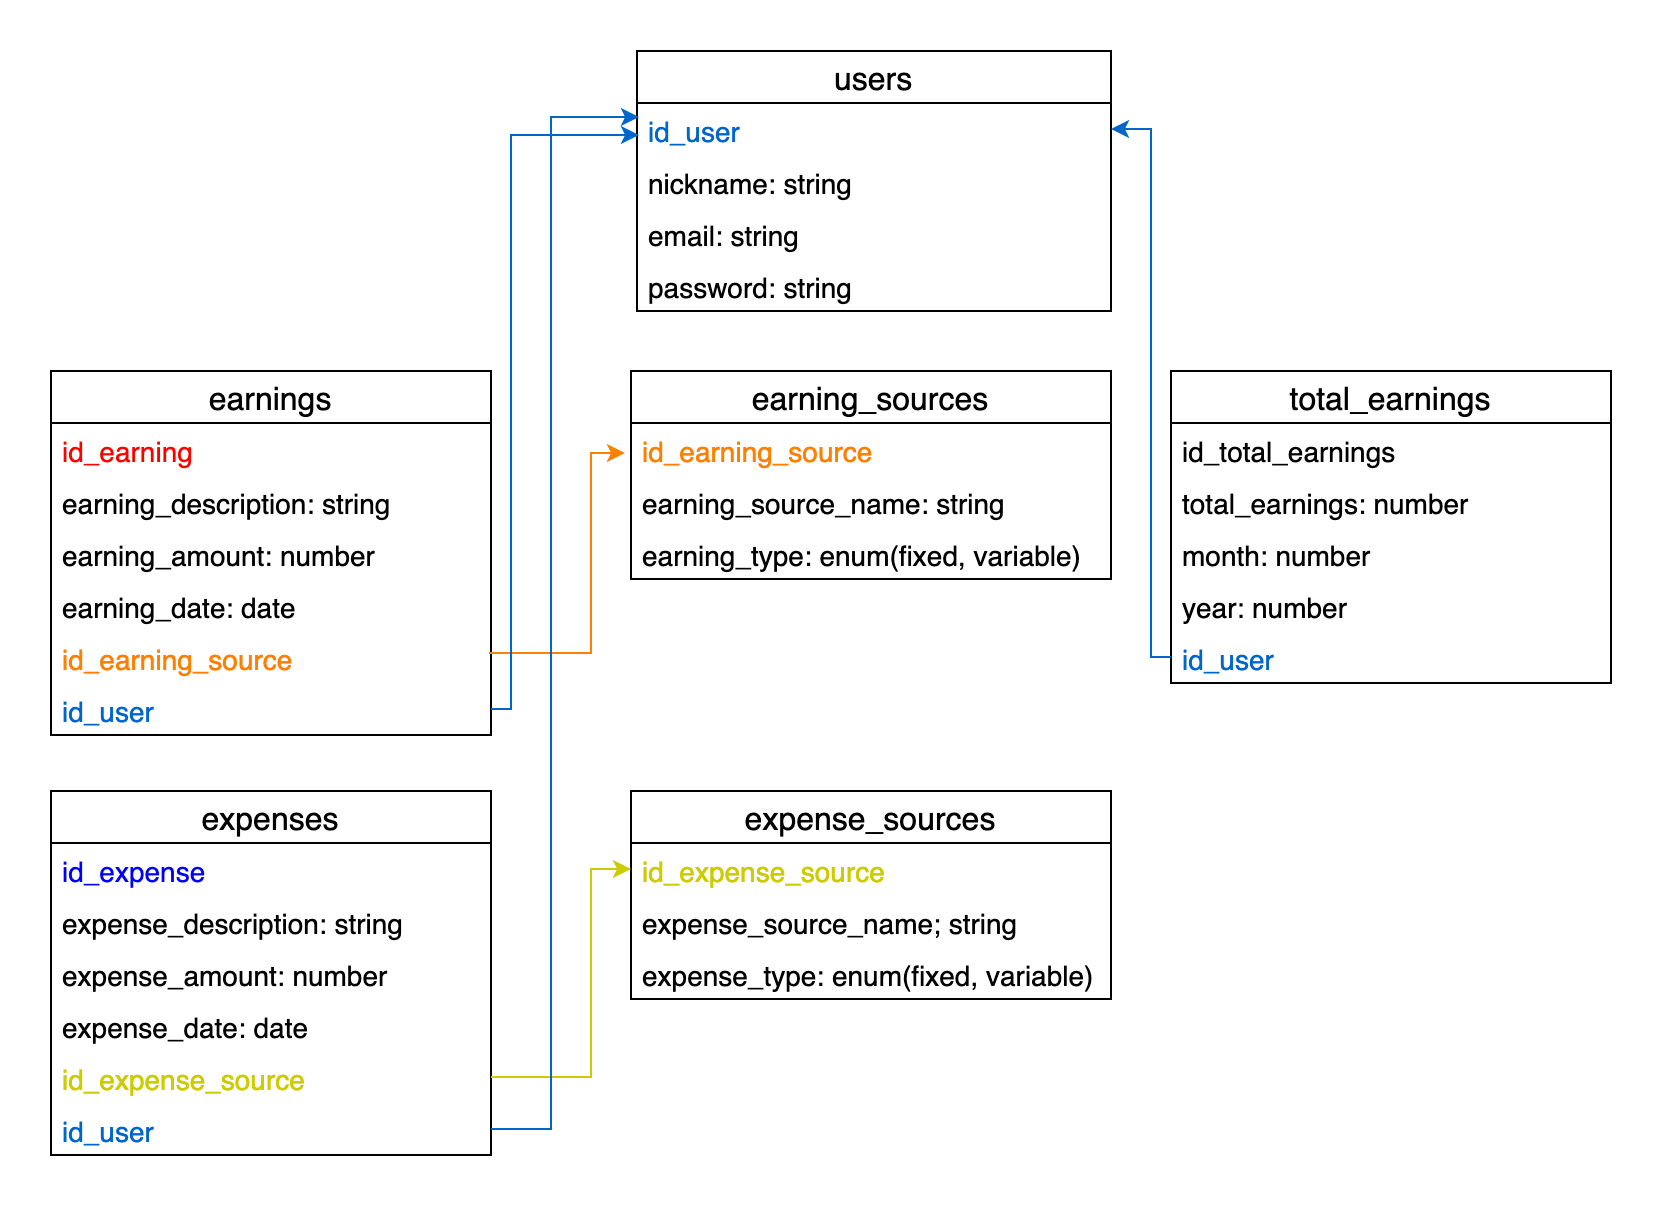
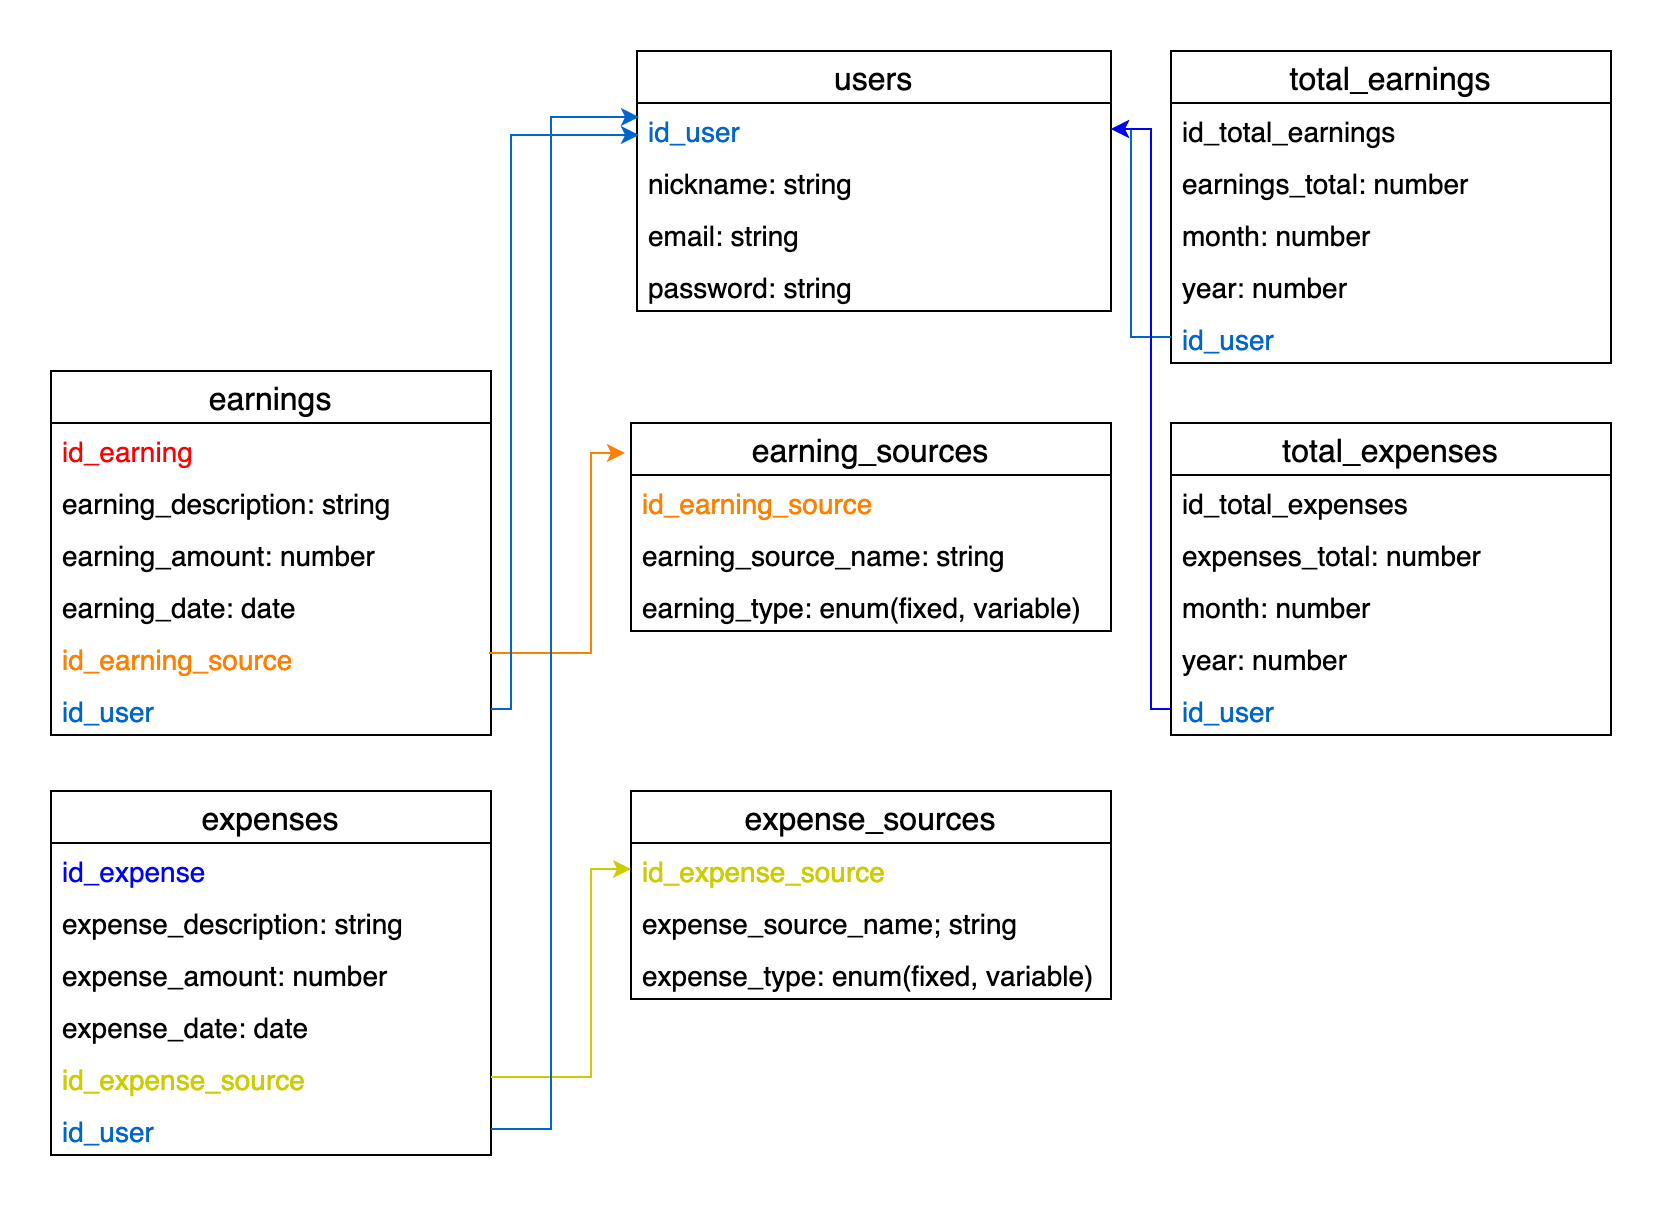
Added total expenses table in database

diff --git a/backend/src/expenses/service/expenses.service.ts b/backend/src/expenses/service/expenses.service.ts
@@ -1,14 +1,17 @@
-import { Injectable, NotFoundException } from '@nestjs/common';
+import { BadRequestException, Injectable, NotFoundException } from '@nestjs/common';
 import { InjectModel } from '@nestjs/mongoose';
 import { Model } from 'mongoose';
 import { Expense } from 'src/schemas/Expense.schema';
 import { ExpensesDto } from '../dto/expenses.dto';
 import { UpdateExpenseDto } from '../dto/update-expenses.dto';
+import { TotalExpenses } from 'src/schemas/TotalExpenses.schema';
 
 @Injectable()
 export class ExpensesService {
   constructor(
     @InjectModel(Expense.name) private readonly expenseModel: Model<Expense>,
+    @InjectModel(TotalExpenses.name)
+    private readonly totalExpensesModel: Model<TotalExpenses>,
   ) {}
 
   async getAllExpenses(): Promise<ExpensesDto[]> {
@@ -24,48 +27,113 @@ export class ExpensesService {
     return allExpenses;
   }
 
-  async getExpenseById(_id): Promise<ExpensesDto>{
-    const expense = await this.expenseModel.findById(_id).exec()
+  async getExpenseById(_id): Promise<ExpensesDto> {
+    const expense = await this.expenseModel.findById(_id).exec();
 
-    if(!expense){
+    if (!expense) {
       throw new NotFoundException('Nessuna uscita trovata');
     }
-    
-    return expense
+
+    return expense;
   }
 
-  async insertNewExpense(expenseDto: ExpensesDto): Promise<ExpensesDto> {    
+  // Controllare se nella tabelle total expenses non esiste il mese e anno si deve inserire, altrimenti incrementara il valore presente
+  async insertNewExpense(expenseDto: ExpensesDto): Promise<ExpensesDto> {
+    let expenseDate;
+
+    if (!expenseDto.expense_date) {
+      expenseDate = Date();
+    } else {
+      expenseDate = expenseDto.expense_date;
+    }
+
+    const amountUser = expenseDto.expense_amount;
+    const monthUser = new Date(expenseDate).getMonth() + 1;
+    const yearUser = new Date(expenseDate).getFullYear(); 
+
+    this.totalExpensesModel
+      .findOneAndUpdate(
+        {
+          month: monthUser,
+          year: yearUser,
+        },
+        {
+          $inc: { expenses_total: expenseDto.expense_amount },
+          $setOnInsert: { monthUser, amountUser, yearUser },
+        },
+        { upsert: true, new: true },
+      )
+      .exec();
+
     const newExpense = await this.expenseModel.create({
       ...expenseDto,
       expense_description: expenseDto.expense_description.trim(),
     });
 
-    return newExpense.populate("id_expense_source");
+    return newExpense.populate('id_expense_source');
   }
 
   async updateExpense(
     _id: string,
     updateExpenseDto: UpdateExpenseDto,
   ): Promise<UpdateExpenseDto> {
+
+    const expenseCurrent = await this.getExpenseById(_id)
+
     const updateExpese = await this.expenseModel
       .findByIdAndUpdate(_id, updateExpenseDto, { new: true })
       .populate('id_expense_source')
       .exec();
 
+      if(updateExpenseDto.expense_amount){}
+
     if (!updateExpese) {
       throw new NotFoundException('Nessuna uscita trovato da modificare');
     }
+
+    const monthUser = expenseCurrent.expense_date.getMonth() + 1;
+    const yearUser = expenseCurrent.expense_date.getFullYear();
+
+    if (updateExpenseDto.expense_amount > expenseCurrent.expense_amount) {
+      const totalExpense = await this.totalExpensesModel
+        .findOne({ month: monthUser, year: yearUser })
+        .exec();
+
+        totalExpense.expenses_total = (totalExpense.expenses_total - expenseCurrent.expense_amount) + updateExpenseDto.expense_amount;
+
+      await totalExpense.save();
+    } else {
+      const totalExpense = await this.totalExpensesModel
+        .findOne({ month: monthUser, year: yearUser })
+        .exec();
+        totalExpense.expenses_total = totalExpense.expenses_total - (expenseCurrent.expense_amount - updateExpenseDto.expense_amount);
+
+        await totalExpense.save()
+    }
+
 
     return updateExpese;
   }
 
   async deleteExpense(_id: string): Promise<ExpensesDto> {
-    const deleteExpense = await this.expenseModel.findByIdAndDelete(_id).exec();
-    
-    if (!deleteExpense) {
-      throw new NotFoundException('Nessuna uscita trovato da eliminare');
-    }
+      const deleteExpense = await this.expenseModel.findByIdAndDelete(_id).exec();    
+
+      if (!deleteExpense) {
+              throw new NotFoundException('Nessuna uscita trovato da eliminare');
+      }
+
+      await this.totalExpensesModel.findOneAndUpdate(
+        {
+          year: deleteExpense.expense_date.getFullYear(),
+          month: deleteExpense.expense_date.getMonth() + 1,
+        },
+        {
+          $inc: { expenses_total: -deleteExpense.expense_amount },
+        },
+      )
+      .exec();      
 
     return deleteExpense;
+  
   }
 }

diff --git a/backend/src/expenses/expenses.module.ts b/backend/src/expenses/expenses.module.ts
@@ -11,6 +11,7 @@ import { ExpensesController } from './controller/expenses.controller';
 import { MongooseModule } from '@nestjs/mongoose';
 import { Expense, ExpenseSchema } from 'src/schemas/Expense.schema';
 import { ObjectIdValidationMiddleware } from 'src/middleware/object-id-validation/object-id-validation.middleware';
+import { TotalExpenses, TotalExpensesSchema } from 'src/schemas/TotalExpenses.schema';
 
 @Module({
   imports: [
@@ -19,6 +20,10 @@ import { ObjectIdValidationMiddleware } from 'src/middleware/object-id-validatio
         name: Expense.name,
         schema: ExpenseSchema,
       },
+      {
+        name: TotalExpenses.name,
+        schema: TotalExpensesSchema,
+      }
     ]),
     ExpenseSourcesModule,
   ],

diff --git a/backend/src/schemas/TotalExpenses.schema.ts b/backend/src/schemas/TotalExpenses.schema.ts
@@ -1,0 +1,21 @@
+import { Prop, Schema, SchemaFactory } from '@nestjs/mongoose';
+import { HydratedDocument, SchemaTypes, Types } from 'mongoose';
+
+export type TotalExpensesDocument = HydratedDocument<TotalExpenses>;
+
+@Schema()
+export class TotalExpenses {
+  @Prop({ type: Number, required: true })
+  expenses_total: number;
+
+  @Prop({ type: Number, required: true })
+  month: number;
+
+  @Prop({ type: Number, required: true })
+  year: number;
+
+  // @Prop({types: SchemaTypes.ObjectId, ref: })
+  // id_user: Types.ObjectId
+}
+
+export const TotalExpensesSchema = SchemaFactory.createForClass(TotalExpenses);

diff --git a/backend/src/earnings/service/earnings.service.ts b/backend/src/earnings/service/earnings.service.ts
@@ -91,6 +91,9 @@ export class EarningsService {
     }
     const monthUser = new Date(earningDate).getMonth() + 1;
     const yearUser = new Date(earningDate).getFullYear();
+    console.log(yearUser);
+    return
+    
 
     const amountUser = earningDto.earning_amount;
     const earning = await this.totalEarningModel
